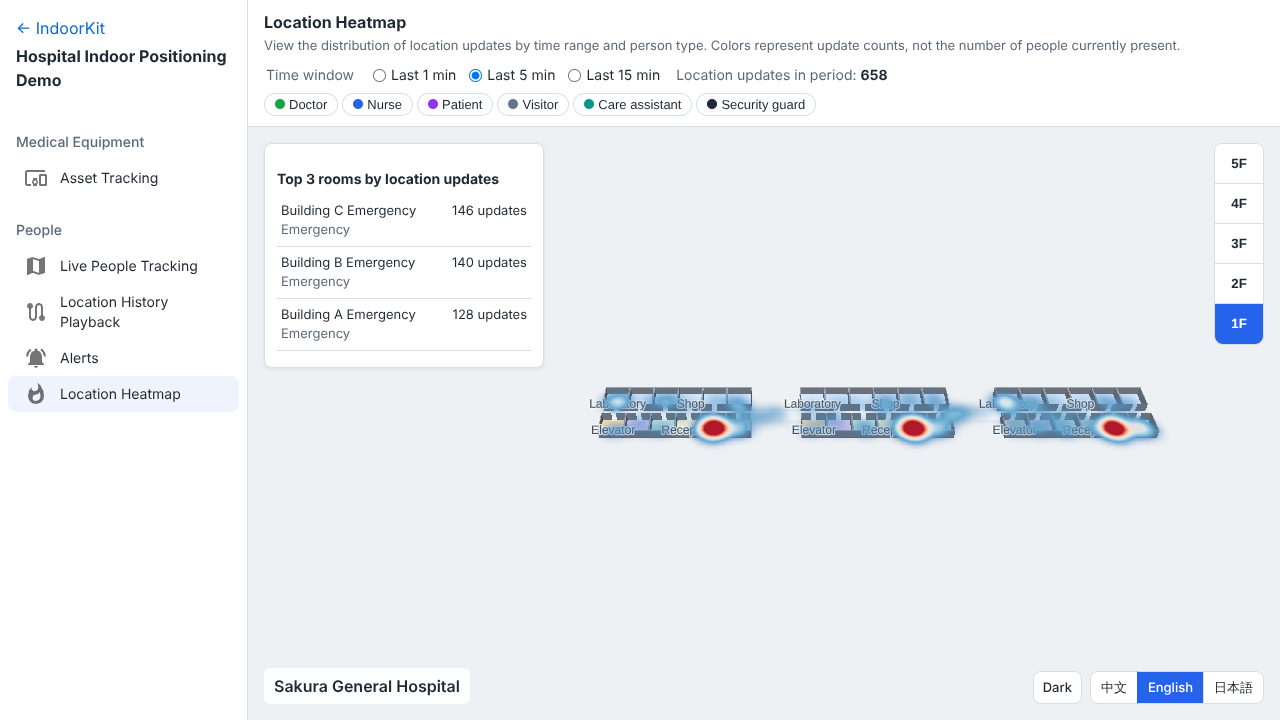
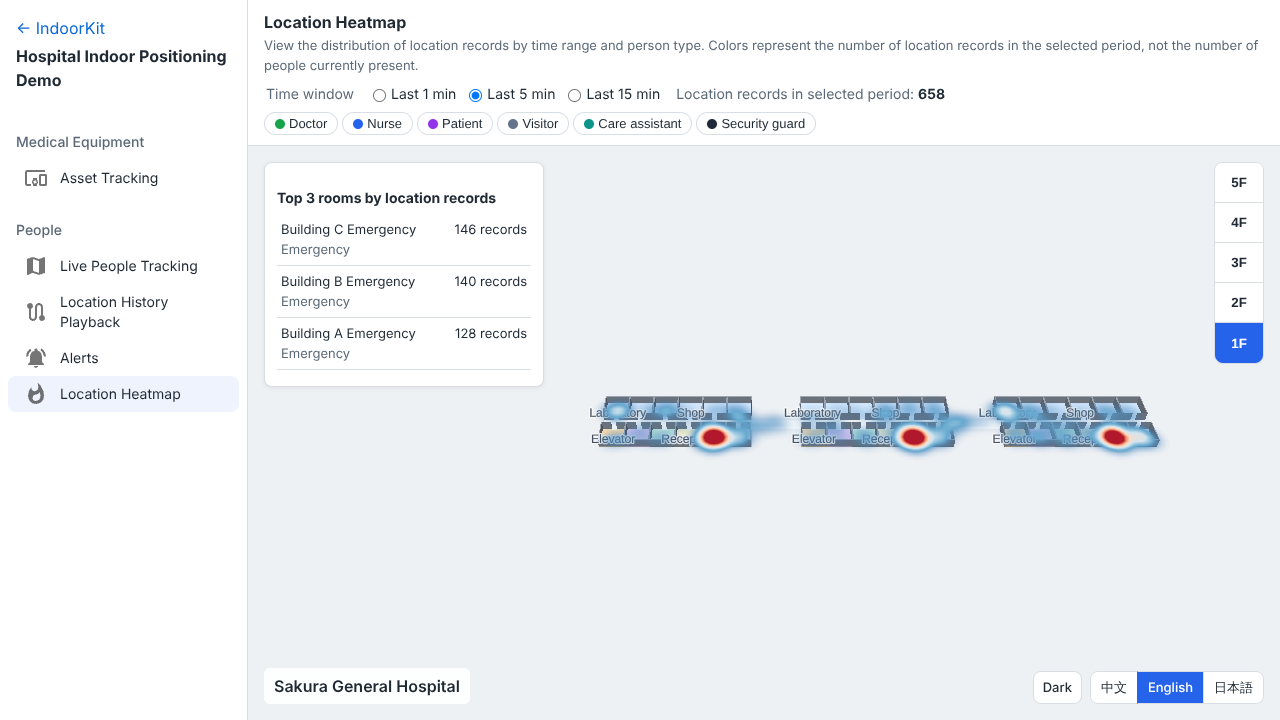
Fix copy the industry review found inaccurate against the code
- Tag counter counts every tag ever received, so it is no longer called
  online/active.
- Heatmap counts received location records, not positioning operations.
- The ward dwell rule applies only to visitors; the entrance rule only
  detects equipment entering the lobby area.
- Japanese offline alert no longer claims a communication timeout, and
  the dwell alert names the exceeded limit.
- Chinese museum light dose uses 累计光照量 (lx·h) instead of 曝光量.

Claude-Session: https://claude.ai/code/session_01Pu2VmrH4jZJrU7jY1CAmuC

diff --git a/apps/playground/src/i18n.ts b/apps/playground/src/i18n.ts
@@ -33,7 +33,7 @@ const zh = {
   'scenario.museum.desc':
     '以虚构的“港市立美术博物馆”为例，在地图上展示展厅与展柜的环境监测数据、访客人数、展柜安防状态和安保巡逻情况。博物馆设有地上 3 层展区和地下藏品库，监测项目包括温湿度、照度和紫外线。',
   'scenario.museum.curator.title': '策展与藏品管理视图',
-  'scenario.museum.curator.desc': '查看展厅与展柜的温湿度、照度、累计曝光量，以及藏品位置。',
+  'scenario.museum.curator.desc': '查看展厅与展柜的温湿度、照度、累计光照量（lx·h），以及藏品位置。',
   'scenario.museum.operations.title': '运营与安保视图',
   'scenario.museum.operations.desc': '查看各展厅的参观人数与参观路线、展柜安防告警，以及安保人员的巡逻情况。',
   'scenario.museum.visitor.title': '观众视图',
@@ -57,7 +57,8 @@ const zh = {
   'page.alerts.title': '告警中心',
   'page.alerts.desc': '集中查看和处理部门区域、电子围栏及设备或人员状态触发的告警。',
   'page.occupancy.title': '定位热力图',
-  'page.occupancy.desc': '按时间范围和人员类型查看定位数据的分布。颜色表示累计定位次数，不代表实时人数。',
+  'page.occupancy.desc':
+    '按时间范围和人员类型查看定位数据的分布。颜色表示所选时段累计的位置记录数，不代表实时人数。',
   'floor.label': '楼层',
   'map.loading': '正在加载地图…',
   'map.failed': '地图加载失败，请重试。',
@@ -75,13 +76,13 @@ const zh = {
   'filter.allWhenEmpty': '未选择筛选项时显示全部',
   'metric.fps': 'FPS',
   'metric.frameMs': '帧间隔 (ms)',
-  'metric.tags': '在线标签数',
+  'metric.tags': '已接收标签数',
   'metric.assets': '本层设备',
   'metric.outside': '所属部门范围外',
   'metric.people': '本层人员',
   'metric.alerts': '告警',
   'metric.unhandled': '未解决',
-  'metric.heatPoints': '所选时段定位次数',
+  'metric.heatPoints': '所选时段位置记录数',
   'hint.replay': '选择地图上的人员查看详情，可在详情中打开轨迹回放。',
   'role.doctor': '医生',
   'role.nurse': '护士',
@@ -156,13 +157,13 @@ const zh = {
   'trail.alarms': '沿途告警',
   'trail.noAlarms': '沿途没有告警',
   'trail.loading': '正在准备轨迹回放…',
-  'busy.title': '定位次数最多的房间（前 3）',
-  'busy.report': '{value} 次',
-  'busy.reports': '{value} 次',
-  'busy.none': '所选时段暂无定位数据',
+  'busy.title': '位置记录最多的房间（前 3）',
+  'busy.report': '{value} 条',
+  'busy.reports': '{value} 条',
+  'busy.none': '所选时段暂无位置记录',
   'fence.icu': 'ICU 限制区域',
-  'fence.exit': '设备防带出（出入口）',
-  'fence.wardDwell': '病房停留超时',
+  'fence.exit': '设备进入出入口区域',
+  'fence.wardDwell': '病房探视停留超时',
   'duration.hm': '{h} 小时 {m} 分',
   'duration.m': '{m} 分',
   'duration.s': '{s} 秒',
@@ -233,7 +234,7 @@ const en: Messages = {
     'Review and manage alerts from department zones, geofences, and device or person status.',
   'page.occupancy.title': 'Location Heatmap',
   'page.occupancy.desc':
-    'View the distribution of location updates by time range and person type. Colors represent update counts, not the number of people currently present.',
+    'View the distribution of location records by time range and person type. Colors represent the number of location records in the selected period, not the number of people currently present.',
   'floor.label': 'Floor',
   'map.loading': 'Loading map…',
   'map.failed': 'The map could not be loaded. Please try again.',
@@ -251,13 +252,13 @@ const en: Messages = {
   'filter.allWhenEmpty': 'All items are shown when no filters are selected',
   'metric.fps': 'FPS',
   'metric.frameMs': 'Frame interval (ms)',
-  'metric.tags': 'Active tags',
+  'metric.tags': 'Tags received',
   'metric.assets': 'Equipment on this floor',
   'metric.outside': 'Outside assigned department',
   'metric.people': 'People on this floor',
   'metric.alerts': 'Alerts',
   'metric.unhandled': 'Unresolved',
-  'metric.heatPoints': 'Location updates in period',
+  'metric.heatPoints': 'Location records in selected period',
   'hint.replay': 'Select a person on the map to view details and play back their location history.',
   'role.doctor': 'Doctor',
   'role.nurse': 'Nurse',
@@ -332,13 +333,13 @@ const en: Messages = {
   'trail.alarms': 'Alerts along the route',
   'trail.noAlarms': 'No alerts along the route',
   'trail.loading': 'Preparing location history…',
-  'busy.title': 'Top 3 rooms by location updates',
-  'busy.report': '{value} update',
-  'busy.reports': '{value} updates',
-  'busy.none': 'No location updates for the selected period',
+  'busy.title': 'Top 3 rooms by location records',
+  'busy.report': '{value} record',
+  'busy.reports': '{value} records',
+  'busy.none': 'No location records for the selected period',
   'fence.icu': 'ICU restricted zone',
-  'fence.exit': 'Equipment exit alert (entrances)',
-  'fence.wardDwell': 'Patient room dwell limit',
+  'fence.exit': 'Equipment detected in entrance area',
+  'fence.wardDwell': 'Visitor dwell limit in patient room',
   'duration.hm': '{h} h {m} min',
   'duration.m': '{m} min',
   'duration.s': '{s} s',
@@ -401,7 +402,7 @@ const ja: Messages = {
     '部門エリア、エリア検知、機器や人の状態に関するアラートをまとめて確認し、対応状況を管理できます。',
   'page.occupancy.title': '測位ヒートマップ',
   'page.occupancy.desc':
-    '期間と対象者の区分を選び、測位データの分布を確認できます。色は測位回数を表し、現在の人数を表すものではありません。',
+    '期間と対象者の区分を選び、測位データの分布を確認できます。色は選択期間の位置記録数を表し、現在の人数を表すものではありません。',
   'floor.label': 'フロア',
   'map.loading': '地図を読み込み中…',
   'map.failed': '地図を読み込めませんでした。もう一度お試しください。',
@@ -419,13 +420,13 @@ const ja: Messages = {
   'filter.allWhenEmpty': '未選択の場合はすべて表示します',
   'metric.fps': 'FPS',
   'metric.frameMs': 'フレーム間隔 (ms)',
-  'metric.tags': '通信中のタグ',
+  'metric.tags': '受信済みタグ数',
   'metric.assets': 'このフロアの機器数',
   'metric.outside': '所属部門エリア外',
   'metric.people': 'このフロアの人数',
   'metric.alerts': 'アラート',
   'metric.unhandled': '未解決',
-  'metric.heatPoints': '選択期間の測位回数',
+  'metric.heatPoints': '選択期間の位置記録数',
   'hint.replay': '地図上の人を選択すると詳細が表示され、移動履歴の再生画面を開けます。',
   'role.doctor': '医師',
   'role.nurse': '看護師',
@@ -449,9 +450,9 @@ const ja: Messages = {
   'alarm.outside-own': '所属部門エリア外への移動',
   'alarm.enter-other': '他部門エリアへの進入',
   'alarm.forbid': '立入制限エリアへの侵入',
-  'alarm.dwell': '長時間滞在',
+  'alarm.dwell': '滞在時間超過',
   'alarm.leave': 'エリアからの離脱',
-  'alarm.offline': '機器の通信途絶',
+  'alarm.offline': '機器オフライン',
   'alarm.sos': 'SOS 発報',
   'level.high': '高',
   'level.medium': '中',
@@ -500,13 +501,13 @@ const ja: Messages = {
   'trail.alarms': '経路上のアラート',
   'trail.noAlarms': '経路上のアラートなし',
   'trail.loading': '移動履歴を準備中…',
-  'busy.title': '測位回数の多い部屋（上位 3 件）',
-  'busy.report': '{value} 回',
-  'busy.reports': '{value} 回',
-  'busy.none': '選択期間の測位データはありません',
+  'busy.title': '位置記録数の多い部屋（上位 3 件）',
+  'busy.report': '{value} 件',
+  'busy.reports': '{value} 件',
+  'busy.none': '選択期間の位置記録はありません',
   'fence.icu': 'ICU 立入制限エリア',
-  'fence.exit': '機器の持ち出し検知（出入口）',
-  'fence.wardDwell': '病室での長時間滞在',
+  'fence.exit': '出入口エリアへの機器進入',
+  'fence.wardDwell': '病室での面会者の滞在時間超過',
   'duration.hm': '{h} 時間 {m} 分',
   'duration.m': '{m} 分',
   'duration.s': '{s} 秒',

diff --git a/apps/playground/test/i18n.test.ts b/apps/playground/test/i18n.test.ts
@@ -33,17 +33,17 @@ describe('terminology', () => {
     'layer.department': { zh: '部门区域', en: 'Department zones', ja: '部門エリア' },
     'layer.status': { zh: '设备与人员状态', en: 'Device and person status', ja: '機器・人の状態' },
     'metric.alerts': { zh: '告警', en: 'Alerts', ja: 'アラート' },
-    // 热力图统计的是定位次数，不是人数
+    // 热力图累计的是收到的位置记录，不是测位动作，也不是人数
     'page.occupancy.title': { zh: '定位热力图', en: 'Location Heatmap', ja: '測位ヒートマップ' },
     'metric.heatPoints': {
-      zh: '所选时段定位次数',
-      en: 'Location updates in period',
-      ja: '選択期間の測位回数',
+      zh: '所选时段位置记录数',
+      en: 'Location records in selected period',
+      ja: '選択期間の位置記録数',
     },
     'busy.title': {
-      zh: '定位次数最多的房间（前 3）',
-      en: 'Top 3 rooms by location updates',
-      ja: '測位回数の多い部屋（上位 3 件）',
+      zh: '位置记录最多的房间（前 3）',
+      en: 'Top 3 rooms by location records',
+      ja: '位置記録数の多い部屋（上位 3 件）',
     },
     // 部门包含护理部和行政部，不全是临床科室
     'place.outsideOwn': {
@@ -63,7 +63,8 @@ describe('terminology', () => {
     'trail.range': { zh: '时间范围', en: 'Time range', ja: '時間範囲' },
     'trail.speed': { zh: '回放速度', en: 'Playback speed', ja: '再生速度' },
     'status.maintenance': { zh: '维护中', en: 'Under maintenance', ja: 'メンテナンス中' },
-    'metric.tags': { zh: '在线标签数', en: 'Active tags', ja: '通信中のタグ' },
+    // 计数是收到过数据的标签总数，不剔除超时标签，不能叫“在线”
+    'metric.tags': { zh: '已接收标签数', en: 'Tags received', ja: '受信済みタグ数' },
     // 菜单和页面标题
     'group.efficiency.title': { zh: '医疗设备', en: 'Medical Equipment', ja: '医療機器' },
     'group.people.title': { zh: '人员', en: 'People', ja: '人の所在' },
@@ -89,19 +90,26 @@ describe('terminology', () => {
       en: 'Entered another department',
       ja: '他部門エリアへの進入',
     },
-    'alarm.dwell': { zh: '停留超时', en: 'Dwell time exceeded', ja: '長時間滞在' },
+    'alarm.dwell': { zh: '停留超时', en: 'Dwell time exceeded', ja: '滞在時間超過' },
     'alarm.leave': { zh: '离开区域', en: 'Zone exit', ja: 'エリアからの離脱' },
-    'alarm.offline': { zh: '设备离线', en: 'Device offline', ja: '機器の通信途絶' },
+    // 由设备上报的离线状态触发，不是通信超时推断
+    'alarm.offline': { zh: '设备离线', en: 'Device offline', ja: '機器オフライン' },
     'alarm.sos': { zh: 'SOS 求救', en: 'SOS alert', ja: 'SOS 発報' },
     // ICU 按部门豁免，是限制区域而不是绝对禁区
     'fence.icu': { zh: 'ICU 限制区域', en: 'ICU restricted zone', ja: 'ICU 立入制限エリア' },
     'alarm.forbid': { zh: '闯入限制区域', en: 'Restricted zone entry', ja: '立入制限エリアへの侵入' },
+    // 规则只判断设备进入 1 层大厅区域，不判断离开方向，也不阻止带出
     'fence.exit': {
-      zh: '设备防带出（出入口）',
-      en: 'Equipment exit alert (entrances)',
-      ja: '機器の持ち出し検知（出入口）',
+      zh: '设备进入出入口区域',
+      en: 'Equipment detected in entrance area',
+      ja: '出入口エリアへの機器進入',
     },
-    'fence.wardDwell': { zh: '病房停留超时', en: 'Patient room dwell limit', ja: '病室での長時間滞在' },
+    // 规则只针对访客
+    'fence.wardDwell': {
+      zh: '病房探视停留超时',
+      en: 'Visitor dwell limit in patient room',
+      ja: '病室での面会者の滞在時間超過',
+    },
   } as const;
 
   it('uses the agreed terms', () => {
@@ -137,8 +145,9 @@ describe('terminology', () => {
       expect(text, key).not.toMatch(/ジオフェンス|位置報告|現在地|積算照度|オンライン/);
     }
     expect(messages.ja['scenario.museum.curator.desc']).toContain('積算露光量');
-    expect(messages.zh['scenario.museum.curator.desc']).toContain('累计曝光量');
-    for (const [key, text] of Object.entries(messages.zh)) expect(text, key).not.toMatch(/定位上报|光照量/);
+    // 中文“曝光量”容易联想到摄影曝光
+    expect(messages.zh['scenario.museum.curator.desc']).toContain('累计光照量（lx·h）');
+    for (const [key, text] of Object.entries(messages.zh)) expect(text, key).not.toMatch(/定位上报|曝光/);
     for (const [key, text] of Object.entries(messages.en)) expect(text, key).not.toMatch(/location report/i);
   });
 

diff --git a/apps/playground/test/empty-states.test.ts b/apps/playground/test/empty-states.test.ts
@@ -16,14 +16,14 @@ describe('empty lists say why they are empty', () => {
   it('the heatmap list without reports', () => {
     const ctx = { venue: {}, index: {}, departmentOfUnit: () => null } as never;
     const html = renderToStaticMarkup(createElement(BusyList, { ctx, rows: [], reports: 0 }));
-    expect(html).toContain('No location updates for the selected period');
+    expect(html).toContain('No location records for the selected period');
   });
 
   it('the heatmap list while its first ranking is still being computed', () => {
     // 已有上报但排名还没算出来时不能说“没有上报”
     const ctx = { venue: {}, index: {}, departmentOfUnit: () => null } as never;
     const html = renderToStaticMarkup(createElement(BusyList, { ctx, rows: [], reports: 329 }));
-    expect(html).not.toContain('No location updates');
+    expect(html).not.toContain('No location records');
   });
 
   it('the trail without stops', () => {
@@ -37,8 +37,8 @@ describe('counts in English', () => {
   it('use the singular for one', () => {
     expect(countText(1, 'detail.device', 'detail.devices')).toBe('1 device');
     expect(countText(2, 'detail.device', 'detail.devices')).toBe('2 devices');
-    expect(countText(0, 'busy.report', 'busy.reports')).toBe('0 updates');
-    expect(countText(1, 'busy.report', 'busy.reports')).toBe('1 update');
+    expect(countText(0, 'busy.report', 'busy.reports')).toBe('0 records');
+    expect(countText(1, 'busy.report', 'busy.reports')).toBe('1 record');
   });
 
   it('keep one form in Chinese and Japanese', () => {

diff --git a/apps/playground/e2e/helpers.ts b/apps/playground/e2e/helpers.ts
@@ -40,7 +40,7 @@ export const PAGE_DESCS: Record<Demo, string> = {
     'Play back a person’s location history over the selected period, including stops and related alerts.',
   alerts: 'Review and manage alerts from department zones, geofences, and device or person status.',
   occupancy:
-    'View the distribution of location updates by time range and person type. Colors represent update counts, not the number of people currently present.',
+    'View the distribution of location records by time range and person type. Colors represent the number of location records in the selected period, not the number of people currently present.',
 };
 
 /** 首页：SDK 名称和一句话介绍 */

diff --git a/README.md b/README.md
@@ -15,7 +15,7 @@ In this demo, clinical, nursing, administrative, and service rooms are assigned 
 Alerts come from department zones, geofences, and device or person status. For each location update, the engine checks department zones, then geofences, and then status signals such as a device going offline or an SOS alert:
 
 1. **Department zones**: for example a patient outside their assigned department for more than 30 s, a visitor entering a department they are not visiting, or a device taken out of its department.
-2. **Geofences**: an ICU restricted zone with exemptions based on department, an equipment exit alert at a first-floor entrance, and a dwell limit for a patient room.
+2. **Geofences**: an ICU restricted zone with exemptions based on department, an alert when equipment enters a first-floor entrance area, and a visitor dwell limit for a patient room.
 3. **Device and person status**: a device going offline, or a person sending an SOS alert.
 
 ## Medical Equipment
@@ -40,7 +40,7 @@ See where everyone is now. Simulated people move along corridors, enter and leav
 - People are colored by person type (doctor, nurse, patient, visitor, care assistant, security guard) and can be filtered by type.
 - People are listed by department, with how many are outside their assigned department.
 - Search by name or ID, then select a result to switch to that person’s floor and follow their location. The person card shows their assigned department, their location and whether they are inside their assigned department, with a link to play back their location history.
-- Choose 500, 2,000 or 5,000 simulated tags; positions are reported once per second and glide smoothly between reports. A performance panel shows frame rate, frame interval and active tags.
+- Choose 500, 2,000 or 5,000 simulated tags; positions are reported once per second and glide smoothly between reports. A performance panel shows frame rate, frame interval and the number of tags received.
 
 ![Live People Tracking](docs/images/tracking.png)
 
@@ -65,7 +65,7 @@ A single list shows department zone, geofence, and status alerts, including the 
 
 ### Location Heatmap
 
-Location updates on each floor over the last 1, 5 or 15 minutes, filtered by person type, with the three rooms on the floor that have the most updates. Colors represent update counts, not the number of people currently present.
+Location records on each floor over the last 1, 5 or 15 minutes, filtered by person type, with the three rooms on the floor that have the most records. Colors represent the number of location records, not the number of people currently present.
 
 ![Location Heatmap](docs/images/occupancy.png)
 
